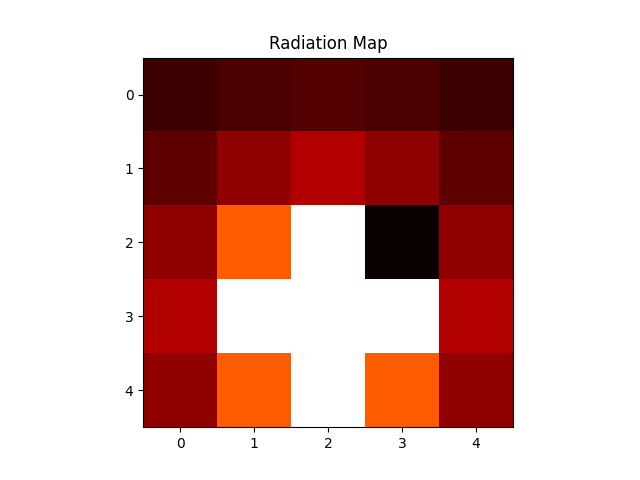
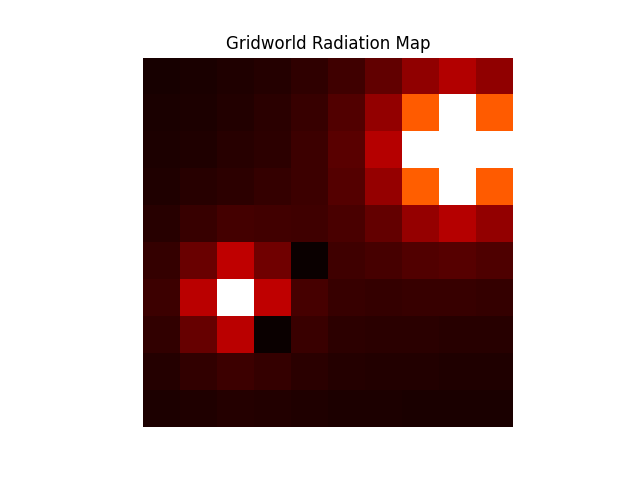
misc

diff --git a/RadiationGridworld.py b/RadiationGridworld.py
@@ -154,6 +154,7 @@ class RadiationGridworld(gym.Env):
                 print(row)
             print()
         elif self.render_mode == 'radiation_map':
-            plt.title('Radiation Map')
-            plt.imshow(self._radiation_vals, cmap='hot')
+            plt.title('Gridworld Radiation Map')
+            plt.imshow(np.flip(self._radiation_vals, axis=0), cmap='hot')
+            plt.axis('off')
             plt.savefig(dir if dir is not None else 'radiation_map.png')

diff --git a/example_train.py b/example_train.py
@@ -1,11 +1,11 @@
 from RadiationGridworld import RadiationGridworld
 
-size = 5
+size = 10
 agent_loc = [0, 0]
 target_loc = [4, 4]
-wall_locs = [[2, 3]]
-radiation_locs = [[3, 2]]
-radiation_consts = [[1, 1]]
+wall_locs = [[2, 3], [4, 4]]
+radiation_locs = [[3, 2], [7, 8]]
+radiation_consts = [[1, 1], [2, 2]]
 render_mode = 'radiation_map'
 
 env = RadiationGridworld(size, agent_loc, target_loc, wall_locs, radiation_locs, radiation_consts, render_mode)
